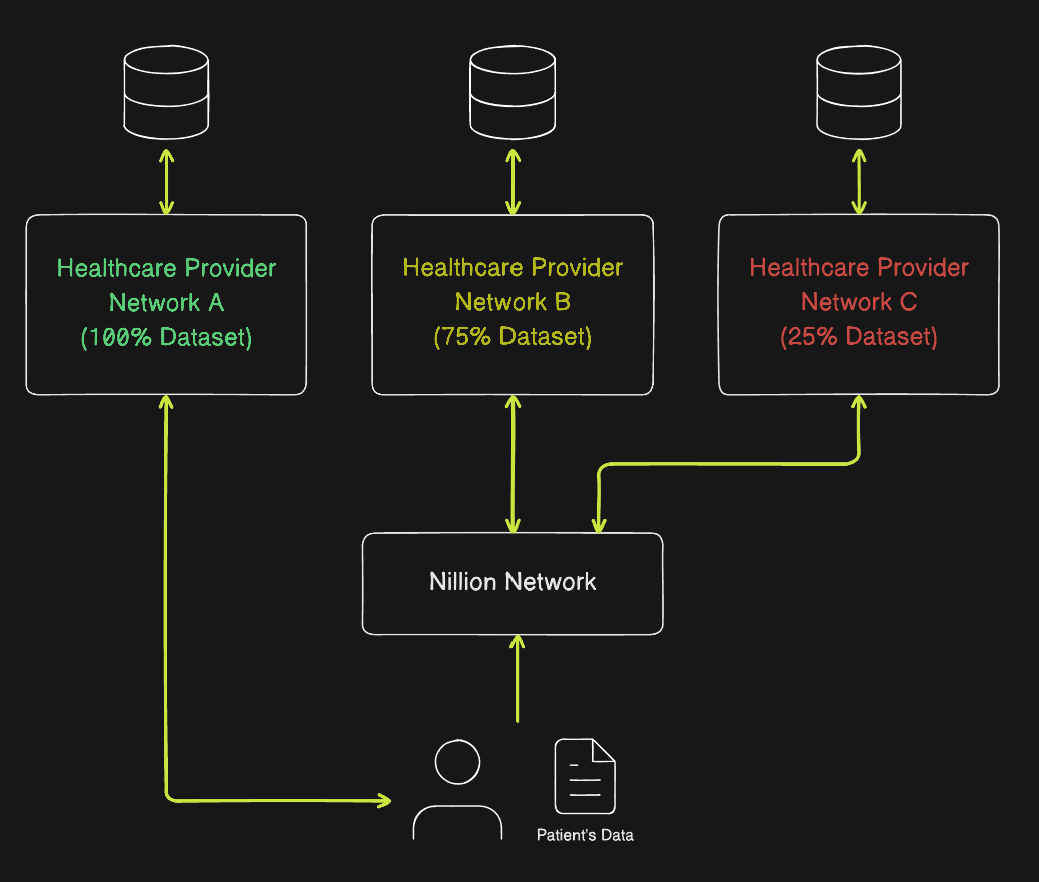
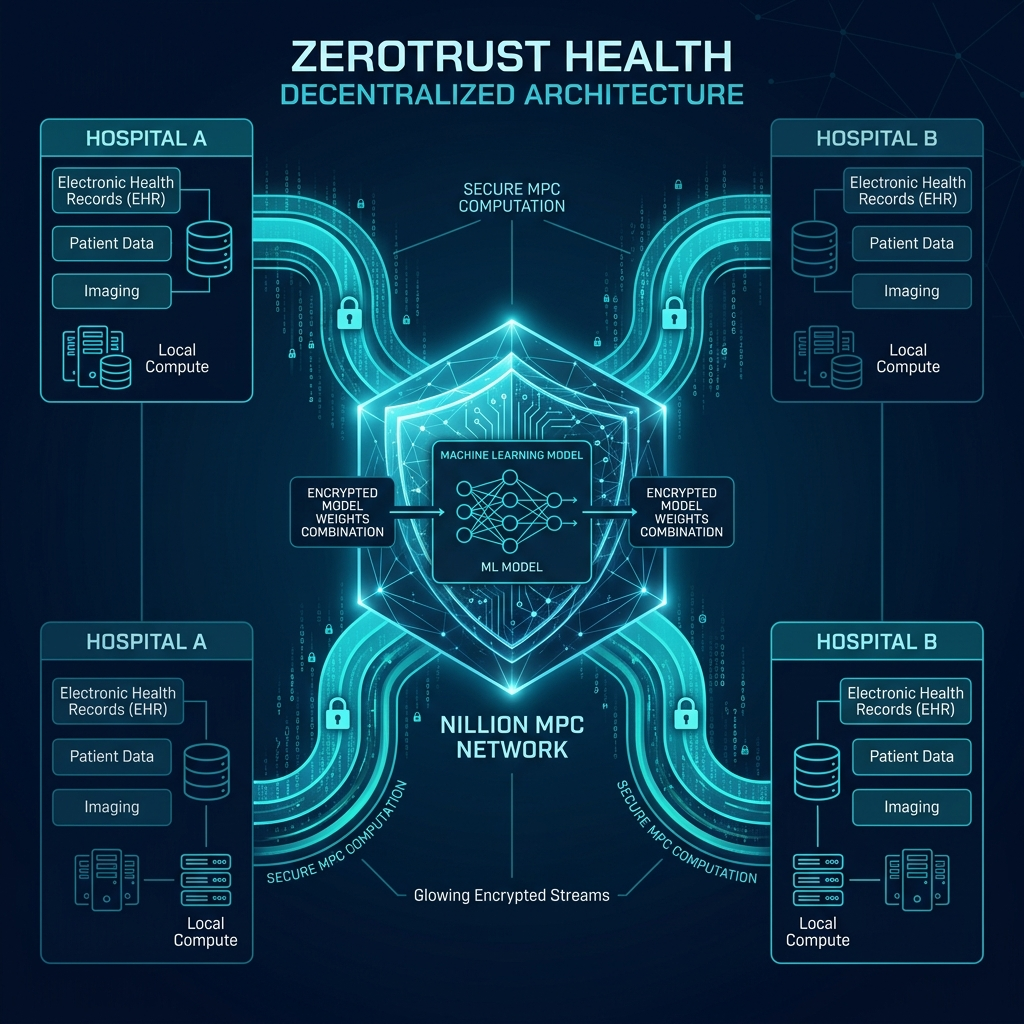
Replace visual assets and re-write README for full uniqueness

diff --git a/README.md b/README.md
@@ -1,83 +1,70 @@
 # ZeroTrust Health
 
-![Project Logo](public/ZeroTrustHealthLogo.png) 
+![ZeroTrust Health Logo](public/ZeroTrustHealthLogo.png)
 
-ZeroTrust Health is a program that demonstrates the power of blind computation in a healthcare setting. Making use of Nillion's multiparty computation, the program provides a breast cancer image classification test performed over multiple health providers.
+**ZeroTrust Health** is a decentralized cryptographic engine designed to enable hospital networks and medical institutions to train predictive AI models on highly sensitive patient data without ever exposing the raw data itself.
 
-## Problem:
-The article *"Sharing Is Caring-Data Sharing Initiative in Healthcare"*[[1]](#1) highlights a concern in regards to who gets access to all the health data. High valued data is expected to further grow in value due to advances in AI/ML and other emerging technologies. Do you know if your health provider can provide you the best care when you need it?
+Powered by Secure Multi-Party Computation (MPC) via the Nillion network, this platform demonstrates how to run a breast cancer classification model across multiple healthcare providers in a completely "blind" state.
 
-## Objective: 
-Make use of modern cryptography to prevent barriers in the healthcare industry and ensure the world's most important data type, medical imaging, can be shared in a way that is fair and secure.
+## 🚀 The Vision
 
-# Demo
-![Diagram](public/Diagram.png)
+In modern healthcare, data silos are a matter of life and death. Advances in AI are bottlenecked because institutions cannot legally or securely share diagnostic imaging data with one another due to strict privacy regulations (HIPAA, GDPR).
 
-The diagram illustrates the program's demo. There are two primary sections, a test computed over a full dataset and a test computed on Nillion's protocol on combining multiple datasets.
+**ZeroTrust Health** solves this by moving from "Data Sharing" to "Data Collaboration." We ensure the world's most critical data type—medical diagnostics—can be leveraged globally while remaining strictly encrypted at rest, in transit, and during computation.
 
-### Full Dataset Test
-- 550+ image data instances
-- 30 parameters and 1 target value (Diagnosis)
-- 80/20 Split, (80) Training data, (20) Testing
-- 3 Figures of Plot Distributions - Full, Small Subset, Large Subset
-- Simple classification model use for computing thetas and test predictions 
-- Single randomly selected test instance used, not a full test evaluation. Do not use program for predictions. Purpose of testing is to compare calculated values.
+## 🧠 Architecture & Workflow
 
-### Multi Party Nillion Test
-- Small Subset (25%) and Large Subset (75%)
-- 30 parameters and 1 target value (Diagnosis)
-- Weighted average method used when combining thetas from subsets
-- A scaling factor was applied to satisfy integer requirements in Nillion's Nada program
+![Architecture Diagram](public/Diagram.png)
 
-# About the program
+Our architecture is split into a localized baseline test and a decentralized cryptographic test:
 
-## ✅ Secure Multi-Party Computation (Blind computation)
+### 1. Local Baseline Training
+- Analyzes over 550 diagnostic instances containing 30 unique cellular parameters and 1 target diagnosis.
+- Automatically handles an 80/20 train-test split.
+- Generates regression coefficients (thetas) and local test predictions to serve as the ground truth.
 
-- [Nillion](https://nillion.com/) - Nillion is a secure computation network that decentralizes trust for high value data in the same way that blockchains decentralized transactions.
+### 2. Decentralized MPC Execution
+- Simulates a fragmented healthcare system by dividing the dataset (25% to Provider A, 75% to Provider B).
+- Utilizes a weighted average protocol to mathematically combine localized model weights within the encrypted state.
+- Executes scaling factors dynamically to translate floating-point ML logic into secure, integer-based cryptographic circuits within the Nada DSL.
 
-## ✅ Diagnostic Imaging Cancer Data
+## 🔐 Core Infrastructure Stack
 
-- [UC Irvine Machine Learning Repository](https://archive.ics.uci.edu/dataset/17/breast+cancer+wisconsin+diagnostic) - The dataset used in the program is related to diagnostic imaging data focused on breast cancer classification. As included in the site's information, the features are computed from a digitized image of a fine needle aspirate (FNA) of a breast mass. It describes characteristics of the cell nuclei present in the image.
+- **Nillion MPC Protocol**: The backbone for blind computation, decentralizing trust across multiple nodes.
+- **Machine Learning Integration**: Leverages standardized diagnostic imaging cancer data from the UC Irvine repository.
+- **Nada DSL**: Custom cryptographic circuits that execute the classification.
 
-## ✅ Files
-- Main Python Program
-- Nillion Nada Program
-- Dataset
+---
 
-## ✅ Installation & Setup
+## 💻 Installation & Setup
 
 ### Requirements
 - Python 3.11+
-- Terminal
+- Terminal / CLI
 
 **1. Clone the repository**
 ```bash
-git clone https://github.com/YOUR-USERNAME/ZeroTrust-Health.git
+git clone https://github.com/mohammadali-2000/ZeroTrust-Health.git
 cd ZeroTrust-Health
 ```
 
-**2. Setup Configuration**
-Copy the example environment variables file and fill in your Nillion credentials if you have them:
+**2. Configure Environment**
+Copy the template and input your cryptographic keys (if applicable):
 ```bash
 cp .env.example .env
 ```
 
-**3. Setup Python Environment**
-Create a virtual environment and install dependencies:
+**3. Initialize Virtual Environment**
 ```bash
 python3.11 -m venv .venv
 source .venv/bin/activate
 pip install -r requirements.txt
 ```
 
-**4. Run the Machine Learning Application**
+**4. Execute the ZeroTrust Engine**
 ```bash
 cd zerotrust_ml_core
 python3 main_compute.py --disable_plot
 ```
 
-*(Note: Nillion MPC cryptographic network execution requires the Nillion SDK `nilup`, which may be unavailable if Nillion servers are down.)*
-
-## ✅ References
-<a id="1">[1]</a>
-Hulsen T. Sharing Is Caring-Data Sharing Initiatives in Healthcare. Int J Environ Res Public Health. 2020 Apr 27;17(9):3046. doi: 10.3390/ijerph17093046. PMID: 32349396; PMCID: PMC7246891.
+*(Note: Nillion MPC network execution requires the local `nilup` SDK.)*